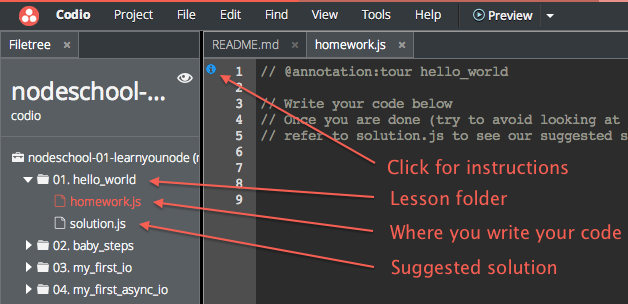
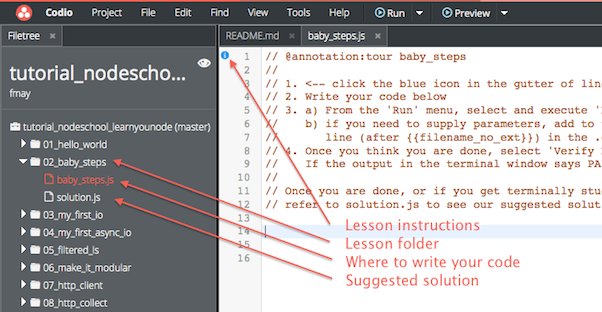
updated instructions and folder structure

diff --git a/01_hello_world/hello_world.js b/01_hello_world/hello_world.js
@@ -1,8 +1,9 @@
-// @annotation:tour hello_world
-
-// Write your code below   
-// Once you are done (try to avoid looking at it beforehand) you can
-// refer to solution.js to see our suggested solution 
+// @annotation:tour hello_world 
+// 
+// <-- click the blue icon in the gutter of line 1 for instructions on this lesson
+// 
+// For a detailed explanation of this tutorial, refer to the README.md file 
+// then starting coding in this file
 
 
 

diff --git a/13 http_json_api_server/http_json_api_server.js b/13 http_json_api_server/http_json_api_server.js
@@ -1,6 +1,9 @@
 // @annotation:tour http_json_api_server
+// 
+// <-- click the blue icon in the gutter of line 1 for instructions on this lesson
+// 
+// For a detailed explanation of this tutorial, refer to the README.md file 
+// then starting coding in this file
 
-// Write your code below
-// Once you are done (try to avoid looking at it beforehand) you can
-// refer to solution.js to see our suggested solution
+
 

diff --git a/04_my_first_async_io/my_first_aysnc_io.js b/04_my_first_async_io/my_first_aysnc_io.js
@@ -1,8 +1,9 @@
 // @annotation:tour my_first_async_io
-
-// Write your code below
-// Once you are done (try to avoid looking at it beforehand) you can
-// refer to solution.js to see our suggested solution
+// 
+// <-- click the blue icon in the gutter of line 1 for instructions on this lesson
+// 
+// For a detailed explanation of this tutorial, refer to the README.md file 
+// then starting coding in this file
 
 
 

diff --git a/12_http_uppercaserer/http_uppercaserer.js b/12_http_uppercaserer/http_uppercaserer.js
@@ -1,6 +1,9 @@
 // @annotation:tour http_uppercaserer
+// 
+// <-- click the blue icon in the gutter of line 1 for instructions on this lesson
+// 
+// For a detailed explanation of this tutorial, refer to the README.md file 
+// then starting coding in this file
 
-// Write your code below
-// Once you are done (try to avoid looking at it beforehand) you can
-// refer to solution.js to see our suggested solution
+
 

diff --git a/11_http_file_server/http_file_server.js b/11_http_file_server/http_file_server.js
@@ -1,7 +1,9 @@
 // @annotation:tour http_file_server
+// 
+// <-- click the blue icon in the gutter of line 1 for instructions on this lesson
+// 
+// For a detailed explanation of this tutorial, refer to the README.md file 
+// then starting coding in this file
 
-// Write your code below
-// Once you are done (try to avoid looking at it beforehand) you can
-// refer to solution.js to see our suggested solution
 
 

diff --git a/06_make_it_modular/make_it_modular.js b/06_make_it_modular/make_it_modular.js
@@ -1,7 +1,9 @@
 // @annotation:tour make_it_modular
+// 
+// <-- click the blue icon in the gutter of line 1 for instructions on this lesson
+// 
+// For a detailed explanation of this tutorial, refer to the README.md file 
+// then starting coding in this file
 
-// Write your code below
-// Once you are done (try to avoid looking at it beforehand) you can
-// refer to solution.js to see our suggested solution
 
 

diff --git a/09_juggling_async/juggling_aysnc.js b/09_juggling_async/juggling_aysnc.js
@@ -1,6 +1,9 @@
 // @annotation:tour juggling_async
+// 
+// <-- click the blue icon in the gutter of line 1 for instructions on this lesson
+// 
+// For a detailed explanation of this tutorial, refer to the README.md file 
+// then starting coding in this file
 
-// Write your code below
-// Once you are done (try to avoid looking at it beforehand) you can
-// refer to solution.js to see our suggested solution
+
 

diff --git a/03_my_first_io/my_first_io.js b/03_my_first_io/my_first_io.js
@@ -1,8 +1,9 @@
 // @annotation:tour my_first_io
-
-// Write your code below
-// Once you are done (try to avoid looking at it beforehand) you can
-// refer to solution.js to see our suggested solution
+// 
+// <-- click the blue icon in the gutter of line 1 for instructions on this lesson
+// 
+// For a detailed explanation of this tutorial, refer to the README.md file 
+// then starting coding in this file
 
 
 

diff --git a/02_baby_steps/baby_steps.js b/02_baby_steps/baby_steps.js
@@ -1,8 +1,9 @@
 // @annotation:tour baby_steps
-
-// Write your code below
-// Once you are done (try to avoid looking at it beforehand) you can
-// refer to solution.js to see our suggested solution
+// 
+// <-- click the blue icon in the gutter of line 1 for instructions on this lesson
+// 
+// For a detailed explanation of this tutorial, refer to the README.md file 
+// then starting coding in this file
 
 
 

diff --git a/08_http_collect/http_collect.js b/08_http_collect/http_collect.js
@@ -1,6 +1,9 @@
 // @annotation:tour http_collect
+// 
+// <-- click the blue icon in the gutter of line 1 for instructions on this lesson
+// 
+// For a detailed explanation of this tutorial, refer to the README.md file 
+// then starting coding in this file
 
-// Write your code below
-// Once you are done (try to avoid looking at it beforehand) you can
-// refer to solution.js to see our suggested solution
+
 

diff --git a/05_filtered_ls/filtered_ls.js b/05_filtered_ls/filtered_ls.js
@@ -1,7 +1,9 @@
 // @annotation:tour filtered_ls
+// 
+// <-- click the blue icon in the gutter of line 1 for instructions on this lesson
+// 
+// For a detailed explanation of this tutorial, refer to the README.md file 
+// then starting coding in this file
 
-// Write your code below
-// Once you are done (try to avoid looking at it beforehand) you can
-// refer to solution.js to see our suggested solution
 
 

diff --git a/07_http_client/http_client.js b/07_http_client/http_client.js
@@ -1,6 +1,9 @@
 // @annotation:tour http_client
+// 
+// <-- click the blue icon in the gutter of line 1 for instructions on this lesson
+// 
+// For a detailed explanation of this tutorial, refer to the README.md file 
+// then starting coding in this file
 
-// Write your code below
-// Once you are done (try to avoid looking at it beforehand) you can
-// refer to solution.js to see our suggested solution
+
 
